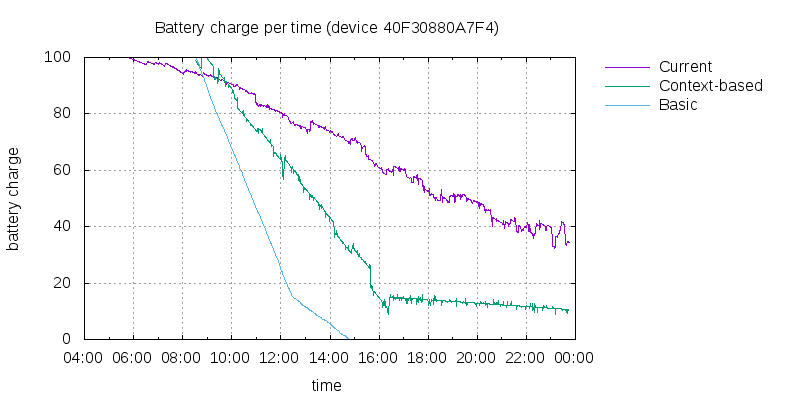
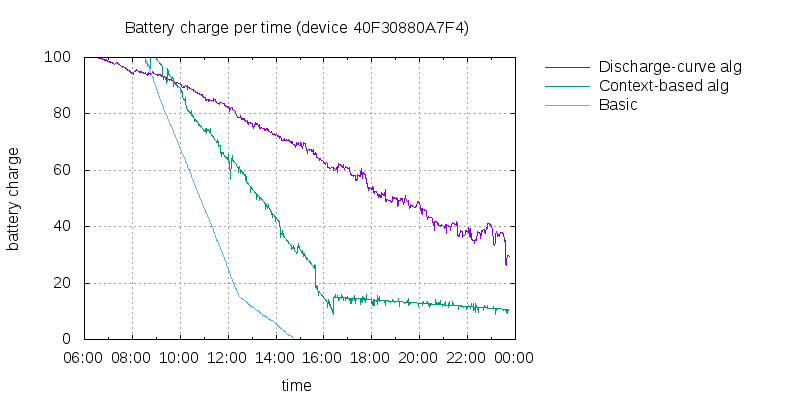
Comunicazione con frontend

diff --git a/tesi.tex b/tesi.tex
@@ -5,7 +5,8 @@
 \usepackage{graphviz}
 \usepackage{amsmath}
 
-\usepackage{minted}
+\usepackage[chapter]{minted}
+\usepackage{adjustbox}
 
 % import package
 \usepackage{FrontespizioSapienza}
@@ -20,10 +21,6 @@
 \FSSRelatore{Emanuele Panizzi}
 \FSSCorrelatore{}
 \FSSAnnoAccademico{2016/2017}
-
-
-% Grafico curva di scarica: cambiare nome a "Current"
-% dot: grafici più grandi
 
 
 \begin{document}
@@ -138,7 +135,14 @@ Il progetto SeismoCloud nasce dalla collaborazione dall'\textbf{Università degl
 
 Già da un decennio alcuni luoghi più sensibili al terremoto si stanno dotando di infrastrutture di \textit{early detection}. Il primo Paese nel 2006 è stato il Giappone, con un sistema denominato \textbf{Earthquake Early Warning}, installato dalla \textbf{JMA} (Japan Meteorological Agency). Tale sistema è composto da 4325 sismometri su tutto il territorio giapponese\footnote{Fonte: JMA, Japan Meteorological Agency, http://www.jma.go.jp}. Il funzionamento è il seguente: quando due o più sensori individuano una scossa di terremoto, il sistema invia degli avvisi immediati attraverso radio, TV e cellulari. L'efficacia\footnote{Per "efficacia" si intende la percentuale di allarmi emessi subito dopo l'individuazione di una onda-P aventi come magnitudo $\pm1$ il valore misurato per il terremoto} di questo sistema varia dal 28\% al 76\% \footnote{Fonte: https://en.wikipedia.org/wiki/Earthquake\_Early\_Warning\_(Japan)}.
 
-Tuttavia comporre reti di \textit{early detection} molto accurate e molto rapide, con gli stessi sismometri installati per lo studio dei terremoti, è una operazione \textbf{complessa} oltre che \textbf{costosa}: si deve posizionare il sismometro nel terreno (a volte a decine di metri di profondità), si deve mantenere un collegamento stabile e affidabile alla rete di rilevamento oltre che l'energia per far funzionare gli apparati in loco. Ecco perché SeismoCloud affronta il problema con una soluzione \textbf{crowd-sourced}: quasi tutti gli smartphone moderni sono dotati di sensori in grado di rilevare le vibrazioni (oltre che la posizione geografica) in modo relativamente accurato\footnote{Olson, Michael; Liu Annie; Faulkner Matthew; Chandy K. Mani; "Rapid Detection of Rare Geospatial Events: Earthquake Warning Applications" in DEBS '11, pp. 89-100, July 2011, ISBN 978-1-4503-0423-8}: questo permette ad ogni utilizzatore di un cellulare di essere un potenziale contributore della rete. Inoltre, con l'esplosione dell'\textit{IoT}\footnote{\textit{Internet of Things}, letteralmente \textit{internet delle cose} è l'insieme dei piccoli dispositivi, che eseguono un gruppo di funzioni ristrette (ad esempio, accendi/spegni la luce), connessi alla rete Internet} ed il costo contenuto dell'hardware di questa categoria, reti hobbystiche e comunitarie (come ad esempio le Mesh Networks) possono contribuire in modo aperto e libero.
+\begin{wrapfigure}{r}{0.25\textwidth}
+\centering
+\label{fig:scsapp}
+\caption{Schermata principale dell'applicazione \textbf{SeismoCloud}}
+\includegraphics[width=0.25\textwidth]{app/main}
+\end{wrapfigure}
+
+Tuttavia comporre reti di \textit{early detection} molto accurate e molto rapide, con gli stessi sismometri installati per lo studio dei terremoti, è una operazione \textbf{complessa} oltre che \textbf{costosa}: si deve posizionare il sismometro nel terreno (a volte a decine di metri di profondità), si deve mantenere un collegamento stabile e affidabile alla rete di rilevamento oltre che l'energia per far funzionare gli apparati in loco. Ecco perché SeismoCloud affronta il problema con una soluzione \textbf{crowd-sourced}: quasi tutti gli smartphone moderni sono dotati di sensori in grado di rilevare le vibrazioni (oltre che la posizione geografica) in modo relativamente accurato\footnote{Olson, Michael; Liu Annie; Faulkner Matthew; Chandy K. Mani; "Rapid Detection of Rare Geospatial Events: Earthquake Warning Applications" in DEBS '11, pp. 89-100, July 2011, ISBN 978-1-4503-0423-8}: questo permette ad ogni utilizzatore di un cellulare, tramite una app denominata \textbf{SeismoCloud}, di contribuire alla rilevazione dei terremoti. Inoltre, con l'esplosione dell'\textit{IoT}\footnote{\textit{Internet of Things}, letteralmente \textit{internet delle cose} è l'insieme dei piccoli dispositivi, che eseguono un gruppo di funzioni ristrette (ad esempio, accendi/spegni la luce), connessi alla rete Internet} ed il costo contenuto dell'hardware di questa categoria, reti hobbystiche e comunitarie (come ad esempio le Mesh Networks) possono contribuire in modo aperto e libero.
 
 \section{Architettura della rete SeismoCloud}
 
@@ -187,11 +191,13 @@ Threshold = Mean + Variance * \sigma
 
 Il rilevamento, con l'algoritmo sopra citato, avviene in background rispetto all'attività utente: in questo modo si consente il multitasking sul dispositivo e si mantiene l'applicazione sempre attiva in modo trasparente per l'utente.
 
+
 \begin{figure}[ht]
-\centering
-\label{fig:scstrace}
-\caption{Grafico dei dati estratti da un sensore SeismoCloud. La linea rossa rappresenta la soglia del dispositivo, le linee verdi, blu e azzurra rappresentano le eventuali soglie alternative calcolate con un valore moltiplicativo del server differente}
-\includegraphics[width=1.5\textwidth,angle=90]{database/984fee0055c9}
+
+\begin{adjustbox}{addcode={\begin{minipage}{\width}}{
+	\caption{Grafico dei dati estratti da un sensore SeismoCloud. La linea rossa rappresenta la soglia del dispositivo, le linee verdi, blu e azzurra rappresentano le eventuali soglie alternative calcolate con un valore moltiplicativo del server differente}\label{fig:scstrace}\end{minipage}},rotate=90,center}
+      \includegraphics[width=1.2\textwidth]{database/984fee0055c9}
+  \end{adjustbox}
 \end{figure}
 
 \chapter{Ottimizzazione energetica}
@@ -224,6 +230,7 @@ Alive->Quake [label="Quake motion detected"];
                linenos,
                numbersep=5pt,
                gobble=0,
+               fontsize=\small,
                frame=lines,
                framesep=2mm]{java}
 boolean inRotation = Math.abs(gravity[2]) < gravityThreshold
@@ -285,7 +292,7 @@ else // Siamo in posizione stabile - FLAT - controllo se siamo in rotazione
 \centering
 \label{fig:scs_sm1}
 \caption{Diagramma degli stati con Alive, Quake e Move}
-\digraph[width=0.7\textwidth]{StateMachine1}{
+\digraph[width=\textwidth]{StateMachine1}{
 Start [style=invis];
 rankdir=LR;
 Start->Alive [label="Service started"];
@@ -306,14 +313,24 @@ In questo modo il servizio, durante il periodo di \textbf{MOVE\_BACKOFF}, non co
 \caption{Diagramma degli stati con Alive, Quake, Move e Move\_Backoff}
 \digraph[width=\textwidth]{StateMachine2}{
 rankdir=LR;
-Start [style=invis];
-Start->Alive [label="Service started"];
+{
 Quake->Alive [label="Quake motion reported"];
 Alive->Quake [label="Quake motion detected"];
 Alive->Move  [label="Rotation off-range"];
 Move->Alive  [label="Rotation normal"];
 Move_Backoff->Move  [label="Interrupt (timeout)"];
 Move->Move_Backoff  [label="Persistent Move state"];
+}
+{
+rankdir=TB;
+Start [style=invis];
+Start->Alive [label="Service started"];
+}
+{
+rankdir=TB;
+rank=min;
+Move_Backoff;
+}
 }
 \end{figure}
 
@@ -330,7 +347,9 @@ Poiché la precisione della localizzazione via rete cellulare è molto variabile
 
 \paragraph{Controllo della connessione dati} Un altro fattore importante per una buona rilevazione è la presenza della connessione di rete (Wi-Fi o rete cellulare). Qualora venga a mancare la connessione Internet non si potrà avvertire per tempo il server: il sistema è quindi portato nella posizione di \textbf{MOVE\_BACKOFF} con l'algoritmo sopra citato. Questo permette di risparmiare batteria quando il segnale è assente.
 
-\paragraph{La batteria} Infine, è stata fatta una analisi sulla batteria e sul consumo. In prima istanza è stato considerato lo status di "\textbf{risparmio energia}" che Android attiva nel momento in cui la batteria raggiunge un valore prefissato (in genere, a meno di cambiamenti fatti dall'utente, il valore è il 15\% della capacità). Grazie ad un \textit{handler} viene intercettato questo evento e viene posto il servizio nella fase di \textbf{MOVE\_BACKOFF} indipendentemente dalle condizioni favorevoli sopra citate. Dopodiché si è provveduto ad effettuare uno studio approfondito, con diversi test, meglio specificata nel capitolo \ref{section:batteria}.
+Per l'identificazione dello stato di \textit{mancanza della connessione dati} si sono utilizzate le API di Android: il sistema operativo infatti fornisce già informazioni riguardo ai cambimenti di stato della connessione attraverso il \textit{dispatch} di un evento informativo.
+
+\paragraph{La batteria} Infine, è stata fatta una analisi sulla batteria e sul consumo. In prima istanza è stato considerato lo status di "\textbf{risparmio energia}" che Android attiva nel momento in cui la batteria raggiunge un valore prefissato (in genere, a meno di cambiamenti fatti dall'utente, il valore è il 15\% della capacità). Grazie ad un \textit{handler} viene intercettato questo evento e viene posto il servizio nella fase di \textbf{MOVE\_BACKOFF} indipendentemente dalle condizioni favorevoli sopra citate. Dopodiché si è provveduto ad effettuare uno studio approfondito, con diversi test, meglio specificata nella sezione \ref{section:batteria}.
 
 \paragraph{Conclusioni} Abbiamo quindi definito una serie di variabili che compongono il nostro \textbf{contesto di attivazione}, ovvero:
 
@@ -361,9 +380,8 @@ Algoritmo ottimizzato & 6 ore e 36 min   & 11 ore e 48 min  & 5 ore 36 min &
 \caption{Diagramma degli stati per i contesti di attivazione}
 \label{fig:scs_sm3}
 \digraph[width=\textwidth]{StateMachine3}{
-rankdir=LR;
-Start [style=invis];
-Start->Alive [label="Service started"];
+rankdir=TB;
+{
 Quake->Alive [label="Quake motion reported"];
 Alive->Quake [label="Quake motion detected"];
 Alive->Move  [label="Rotation off-range"];
@@ -374,19 +392,54 @@ Alive->Move_Backoff  [label="Location unavailable/move"];
 Alive->Move_Backoff  [label="Android Power safe mode"];
 Alive->Move_Backoff  [label="Internet unavailable"];
 }
+{
+Start [style=invis];
+Start->Alive [label="Service started"];
+}
+{
+rank=sink;
+Move_Backoff;
+}
+}
 \end{figure}
 
 \begin{figure}[ht]
 \centering
-\caption{Comparazione (valori medi in un giorno) dell'utilizzo delle risorse CPU e sensori da parte degli algoritmi con (\textit{Current}) e senza (\textit{Original}) contesto di attivazione: si può notare come il tempo di inattività in blu (\textbf{MOVE\_BACKOFF}) sia una porzione notevole del tempo totale}
+\caption{Comparazione (valori medi in un giorno) dell'utilizzo delle risorse CPU e sensori da parte degli algoritmi con (\textit{Context-based}) e senza (\textit{Basic}) contesto di attivazione: si può notare come il tempo di inattività in blu (\textbf{MOVE\_BACKOFF}) sia una porzione notevole del tempo totale}
 \includegraphics[width=\textwidth]{database/usageplot}
 \label{fig:usagechart}
 \end{figure}
 
+\clearpage
 
 \section{La comunicazione con il front-end}
 
-Qui si descrive la politica utilizzata per mantere l'applicazione attiva (notifica permanente) poiché Android pone le applicazioni in sleep. Si spiega anche il wakelock sulla CPU, la sospensione dell'aggiornamento dati in background delle activity quando non sono in vista.
+\paragraph{Un requisito di HCI} Effettuando alcuni studi di \textit{Human-Computer Interaction} era stato stabilito di inserire, nella schermata principale dell'applicazione, un box contenente il grafico dato dai valori di accelerazione (formula~\ref{eq:vettoreris}) nel tempo. Lo scopo di questo box è di mostrare all'utente quello che avviene e qual è lo stato del servizio di rilevamento in background.
+
+\begin{figure}[ht]
+\centering
+\includegraphics[width=0.7\textwidth]{app/activitychart2}
+\caption{Porzione della schermata principale con il grafico del segnale dell'accelerometro: \textbf{1}: nome del sismometro (scelto dall'utente); \textbf{2}: Posizione georeferenziata; \textbf{3}: Indicatore di stato, verde: servizio attivo, rosso: vibrazione rilevata, grigio: servizio spento; \textbf{4}: Grafico del segnale dell'accelerometro}
+\label{fig:activitychart}
+\end{figure}
+
+\paragraph{Adeguamento del codice} Per poter mostrare lo stato del servizio all'utente, è stato aggiunto un indicatore di stato (punto \textbf{3} figura \ref{fig:activitychart}) ed è stato inserito un testo descrittivo al posto del grafico nei seguenti casi:
+
+\begin{itemize}
+\item Servizio in stato di \textbf{MOVE}, con l'indicazione per l'utente di poggiare il telefono su una superficie orizzontale
+\item Servizio in \textbf{MOVE\_BACKOFF} in caso di localizzazione o rete assente, con il testo relativo
+\end{itemize}
+
+Con le nuove ottimizzazioni inserite nei paragrafi precedenti, tuttavia, \textbf{il servizio non è sempre disponibile}: ad esempio in caso di batteria bassa (o sotto la soglia di scarica, sezione \ref{section:batteria}), o più semplicemente quando l'utente apre la app mentre ha il telefono in mano, il servizio risulterà fermo (per effetto dei \textbf{contesti di attivazione}, sezione \ref{section:contesti}). Poiché è importante che il servizio abbia un funzionamento coerente con i criteri di risparmio energetico che ci siamo prefissati, ma nello stesso tempo è importante fornire all'utente una informazione utile, è stata introdotta anche la seguente modifica, ai contesti di attivazione sopra citati, che include questi vincoli:
+
+\begin{itemize}
+\item Il passaggio da \textbf{MOVE} a \textbf{MOVE\_BACKOFF}, nei casi di \textbf{batteria bassa} (sotto la curva di scarica\footnote{Vedi sezione \ref{section:batteria}} o $<= 15\%$) o di \textbf{permanenza nello stato di MOVE}, avviene solo se la app è chiusa (ed è quindi attivo solo il servizio in background)
+\item Se il servizio è spento (è già in \textbf{MOVE\_BACKOFF}) viene attivato
+\end{itemize}
+
+In sostanza, se l'utente \textbf{sceglie volontariamente} di avere l'informazione sul servizio, tale servizio deve essere attivo (se possibile, ovvero a meno di mancanza di rete/localizzazione).
+
+\paragraph{Test di utilizzo} Diversi test di HCI, effettuati prendendo un campione di utenti rappresentativo, hanno confermato queste modifiche: la comunicazione con l'utente era rimasta pressoché invariata rispetto all'informazione fornita già in precedenza, con l'aggiunta utile degli stati del servizio tramite l'indicatore colorato ed il testo presente al posto del grafico nei casi sopra citati.
 
 \section{I sensori}
 \label{section:sensori}
@@ -505,7 +558,7 @@ Dopo averla applicata sui dispositivi di test, abbiamo subito notato un enorme c
 
 \begin{figure}[h]
 \centering
-\caption{Capacità residua batteria (media) prima e dopo l'ottimizzazione: \textit{Basic} rappresenta l'algoritmo di base senza ottimizzazioni, \textit{Context-based} rappresenta l'algoritmo che utilizza solo i contesti di attivazione, mentre \textit{Current} rappresenta l'algoritmo corrente, che sfrutta sia i contesti di attivazione che la curva di scarica}
+\caption{Capacità residua batteria (media) prima e dopo l'ottimizzazione: \textbf{Basic} rappresenta l'algoritmo di base senza ottimizzazioni, \textbf{Context-based alg} rappresenta l'algoritmo che utilizza solo i contesti di attivazione, mentre \textbf{Discharge-curve alg} rappresenta l'algoritmo corrente, che sfrutta sia i contesti di attivazione che la curva di scarica}
 \includegraphics[width=\textwidth]{database/batteryplot}
 \label{fig:batterychart}
 \end{figure}
@@ -562,7 +615,15 @@ Si spiega come l'introduzione dell'MQTT abbia ridotto il carico sulla rete per l
 
 Parlare del meccanismo di Pushback per l'invio dei dati (ad esempio survey) in background in modo ottimizzato in caso di problemi di rete (invio asincrono).
 
-\chapter{Ottimizzazione dell'uso di memoria nel codice}
+\chapter{Ottimizzazione dell'uso di memoria e CPU nel codice}
+
+\section{Transito dati tra front-end e servizio in background}
+
+\paragraph{Activity lifecycle} Con la frase \textit{Activity lifecycle} si intende il ciclo di vita di una schermata di una applicazione Android.
+
+Qui si descrive la politica utilizzata per mantere l'applicazione attiva (notifica permanente) poiché Android pone le applicazioni in sleep. Si spiega anche il wakelock sulla CPU, la sospensione dell'aggiornamento dati in background delle activity quando non sono in vista.
+
+\section{Calcolo media e varianza online}
 
 Per ogni valore rilevato nello stato \textit{ALIVE}, inoltre, vengono aggiornati i seguenti valori:
 \begin{equation}
